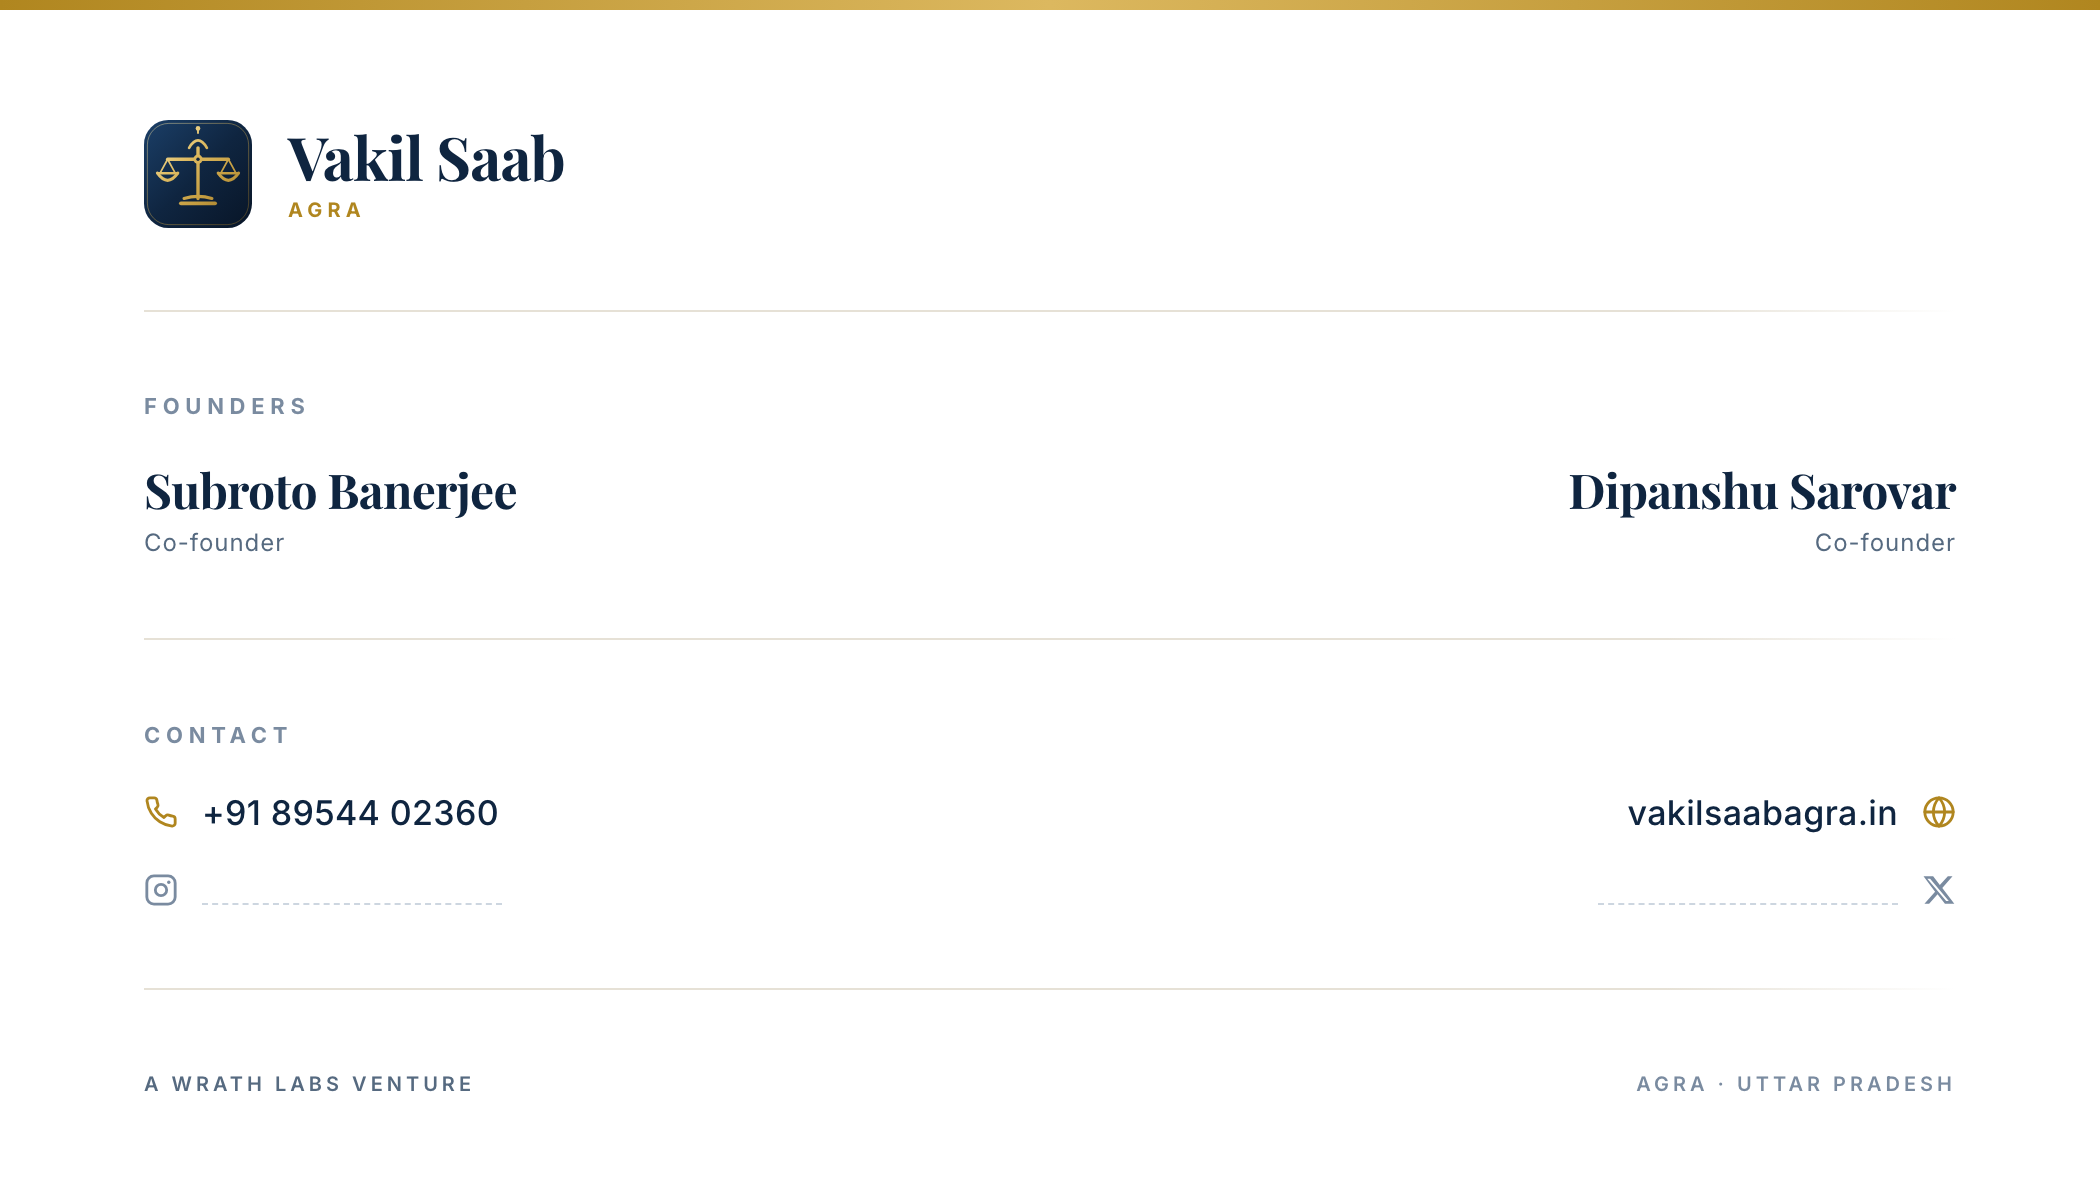
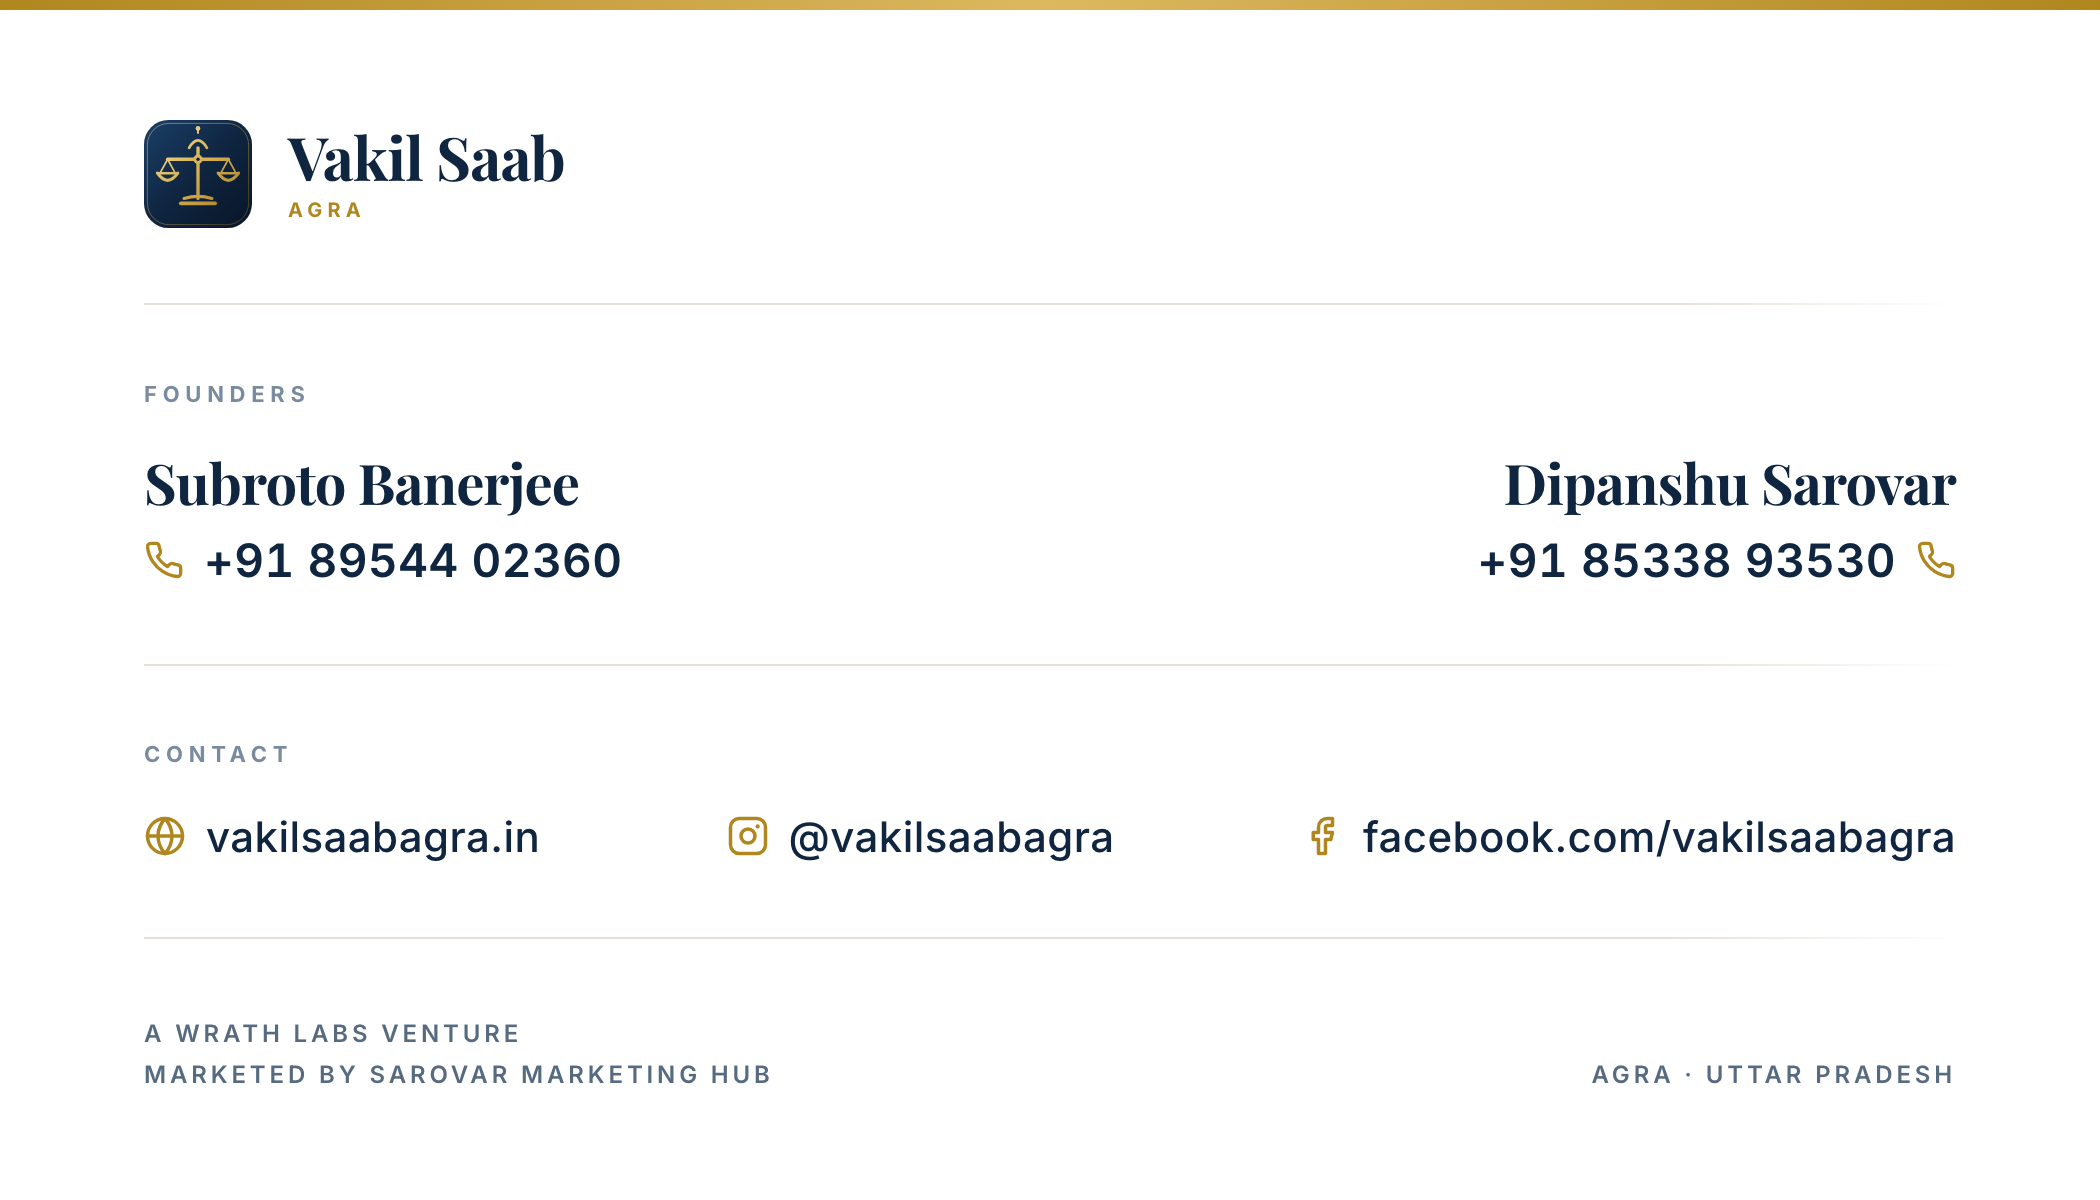
feat(brand): business card — founders' numbers, real socials, larger type
Each founder carries their own number; the contact row is the site,
Instagram and Facebook; a Sarovar Marketing Hub credit in the footer.

Claude-Session: https://claude.ai/code/session_01CR3YgJKuPwDFH6Gg292vKD

diff --git a/tools/business-card/back.html b/tools/business-card/back.html
@@ -53,11 +53,21 @@
       <div class="founders">
         <div class="founder">
           <div class="display fname">Subroto Banerjee</div>
-          <div class="frole">Co-founder</div>
+          <div class="fphone">
+            <svg viewBox="0 0 24 24" fill="none" stroke="currentColor" stroke-width="2" stroke-linecap="round" stroke-linejoin="round" aria-hidden="true">
+              <path d="M22 16.92v3a2 2 0 0 1-2.18 2 19.79 19.79 0 0 1-8.63-3.07 19.5 19.5 0 0 1-6-6A19.79 19.79 0 0 1 2.12 4.18 2 2 0 0 1 4.11 2h3a2 2 0 0 1 2 1.72c.13.96.36 1.9.7 2.81a2 2 0 0 1-.45 2.11L8.09 9.91a16 16 0 0 0 6 6l1.27-1.27a2 2 0 0 1 2.11-.45c.9.34 1.85.57 2.81.7A2 2 0 0 1 22 16.92z"/>
+            </svg>
+            <span>+91 89544 02360</span>
+          </div>
         </div>
         <div class="founder">
           <div class="display fname">Dipanshu Sarovar</div>
-          <div class="frole">Co-founder</div>
+          <div class="fphone">
+            <svg viewBox="0 0 24 24" fill="none" stroke="currentColor" stroke-width="2" stroke-linecap="round" stroke-linejoin="round" aria-hidden="true">
+              <path d="M22 16.92v3a2 2 0 0 1-2.18 2 19.79 19.79 0 0 1-8.63-3.07 19.5 19.5 0 0 1-6-6A19.79 19.79 0 0 1 2.12 4.18 2 2 0 0 1 4.11 2h3a2 2 0 0 1 2 1.72c.13.96.36 1.9.7 2.81a2 2 0 0 1-.45 2.11L8.09 9.91a16 16 0 0 0 6 6l1.27-1.27a2 2 0 0 1 2.11-.45c.9.34 1.85.57 2.81.7A2 2 0 0 1 22 16.92z"/>
+            </svg>
+            <span>+91 85338 93530</span>
+          </div>
         </div>
       </div>
     </section>
@@ -68,13 +78,6 @@
       <div class="eyebrow label">Contact</div>
       <div class="contact">
         <div class="row">
-          <!-- phone -->
-          <svg viewBox="0 0 24 24" fill="none" stroke="currentColor" stroke-width="2" stroke-linecap="round" stroke-linejoin="round" aria-hidden="true">
-            <path d="M22 16.92v3a2 2 0 0 1-2.18 2 19.79 19.79 0 0 1-8.63-3.07 19.5 19.5 0 0 1-6-6A19.79 19.79 0 0 1 2.12 4.18 2 2 0 0 1 4.11 2h3a2 2 0 0 1 2 1.72c.13.96.36 1.9.7 2.81a2 2 0 0 1-.45 2.11L8.09 9.91a16 16 0 0 0 6 6l1.27-1.27a2 2 0 0 1 2.11-.45c.9.34 1.85.57 2.81.7A2 2 0 0 1 22 16.92z"/>
-          </svg>
-          <div class="val">+91 89544 02360</div>
-        </div>
-        <div class="row">
           <!-- globe -->
           <svg viewBox="0 0 24 24" fill="none" stroke="currentColor" stroke-width="2" stroke-linecap="round" stroke-linejoin="round" aria-hidden="true">
             <circle cx="12" cy="12" r="10"/><path d="M2 12h20"/>
@@ -82,20 +85,20 @@
           </svg>
           <div class="val">vakilsaabagra.in</div>
         </div>
-        <div class="row blank">
-          <!-- instagram — handle to be filled in -->
+        <div class="row">
+          <!-- instagram -->
           <svg viewBox="0 0 24 24" fill="none" stroke="currentColor" stroke-width="2" stroke-linecap="round" stroke-linejoin="round" aria-hidden="true">
             <rect x="2" y="2" width="20" height="20" rx="5"/>
             <circle cx="12" cy="12" r="4"/><circle cx="17.5" cy="6.5" r="1.2" fill="currentColor" stroke="none"/>
           </svg>
-          <div class="val"></div>
+          <div class="val">@vakilsaabagra</div>
         </div>
-        <div class="row blank">
-          <!-- x / twitter — handle to be filled in -->
-          <svg viewBox="0 0 24 24" fill="currentColor" stroke="none" aria-hidden="true">
-            <path d="M18.24 2.25h3.31l-7.23 8.26 8.5 11.24h-6.63l-5.2-6.8-5.94 6.8H1.73l7.5-8.58L1.07 2.25h6.8l4.71 6.23 5.66-6.23zm-1.16 17.52h1.83L5.72 4.13H3.75l13.33 15.64z"/>
+        <div class="row">
+          <!-- facebook -->
+          <svg viewBox="0 0 24 24" fill="none" stroke="currentColor" stroke-width="2" stroke-linecap="round" stroke-linejoin="round" aria-hidden="true">
+            <path d="M18 2h-3a5 5 0 0 0-5 5v3H7v4h3v8h4v-8h3l1-4h-4V7a1 1 0 0 1 1-1h3z"/>
           </svg>
-          <div class="val"></div>
+          <div class="val">facebook.com/vakilsaabagra</div>
         </div>
       </div>
     </section>
@@ -103,7 +106,10 @@
     <div class="divider"></div>
 
     <div class="foot">
-      <div class="wl">A Wrath Labs venture</div>
+      <div class="credits">
+        <div>A Wrath Labs venture</div>
+        <div>Marketed by Sarovar Marketing Hub</div>
+      </div>
       <div>Agra &middot; Uttar Pradesh</div>
     </div>
   </div>

diff --git a/tools/business-card/card.css b/tools/business-card/card.css
@@ -112,12 +112,12 @@ body {
 
 .front .site {
   position: absolute;
-  left: 0; right: 0; bottom: 52px;
+  left: 0; right: 0; bottom: 48px;
   text-align: center;
-  font-size: 17px;
-  font-weight: 500;
-  letter-spacing: .06em;
-  color: rgba(255, 255, 255, .82);
+  font-size: 28px;
+  font-weight: 600;
+  letter-spacing: .05em;
+  color: rgba(255, 255, 255, .92);
 }
 
 /* ------------------------------------------------------------------- back */
@@ -170,47 +170,45 @@ body {
   grid-template-columns: 1fr 1fr;
   gap: 40px;
 }
-.back .founder .fname { font-size: 24px; font-weight: 700; line-height: 1.1; }
-.back .founder .frole {
-  margin-top: 6px;
-  color: var(--muted);
-  font-size: 12px;
-  letter-spacing: .04em;
+.back .founder .fname { font-size: 28px; font-weight: 700; line-height: 1.1; }
+.back .founder .fphone {
+  margin-top: 10px;
+  display: flex;
+  align-items: center;
+  gap: 10px;
+  font-size: 23px;
+  font-weight: 600;
+  letter-spacing: .01em;
+  font-variant-numeric: tabular-nums;
 }
+.back .founder .fphone svg { width: 20px; height: 20px; flex: none; color: var(--gold); }
 
 /* --- contact ------------------------------------------------------------- */
+/* one row of three — site, Instagram, Facebook — pinned left, centre, right */
 .back .contact {
   margin-top: 22px;
-  display: grid;
-  grid-template-columns: 1fr 1fr;
-  gap: 20px 40px;
+  display: flex;
+  justify-content: space-between;
+  align-items: center;
 }
-.back .row { display: flex; align-items: center; gap: 12px; }
-.back .row svg { width: 17px; height: 17px; flex: none; color: var(--gold); }
-.back .row .val { font-size: 17px; font-weight: 500; letter-spacing: .01em; }
-
-/* social slots that are deliberately empty until the handles exist */
-.back .row.blank svg { color: var(--muted-2); }
-.back .row.blank .val {
-  width: 150px;
-  border-bottom: 1px dashed #cdd6e0;
-  height: 15px;
-}
+.back .row { display: flex; align-items: center; gap: 10px; }
+.back .row svg { width: 21px; height: 21px; flex: none; color: var(--gold); }
+.back .row .val { font-size: 21px; font-weight: 500; letter-spacing: .01em; }
 
 /* --- footer -------------------------------------------------------------- */
 .back .foot {
   display: flex;
-  align-items: baseline;
+  align-items: flex-end;
   justify-content: space-between;
-  color: var(--muted-2);
-  font-size: 10px;
-  letter-spacing: .2em;
+  color: var(--muted);
+  font-size: 12px;
+  line-height: 1.7;
+  letter-spacing: .16em;
   font-weight: 600;
   text-transform: uppercase;
 }
-.back .foot .wl { color: var(--muted); }
 
 /* The right-hand column mirrors the left so the card is balanced edge to
    edge instead of trailing off into white space on the right. */
 .back .founders > :nth-child(2) { justify-self: end; text-align: right; }
-.back .contact > :nth-child(even) { justify-self: end; flex-direction: row-reverse; }
+.back .founders > :nth-child(2) .fphone { flex-direction: row-reverse; }

diff --git a/CHANGELOG.md b/CHANGELOG.md
@@ -837,6 +837,52 @@ coverage 718 → 750, still the same 4 deliberate English ones.
 
 ---
 
+## 2026-09-12 — Business card: founders' numbers, real socials, larger type
+
+**Front.** `vakilsaabagra.in` along the bottom goes from 17px to 28px, weight
+500 → 600, opacity .82 → .92, and sits 4px lower to keep its gap from the
+tagline. At the card's 1px = 1/300in that is 4.1pt → 6.7pt.
+
+**Back, founders.** The two `Co-founder` lines are gone; each founder carries
+their own number in that place, with a gold phone icon — Subroto
+`+91 89544 02360`, Dipanshu `+91 85338 93530`, both grouped 5-5 like the rest
+of the brand. The right-hand number mirrors the left (icon outboard), the same
+treatment the column already had. Names 24 → 28px, numbers 23px semibold with
+tabular figures.
+
+**Back, contact.** The phone row is removed — the numbers now live under the
+names — and so is the empty X slot. What is left is one row of three, pinned
+left, centre and right: `vakilsaabagra.in`, `@vakilsaabagra` (Instagram) and
+`facebook.com/vakilsaabagra`. The Instagram and Facebook slots were dashed
+blanks until now; these are the real handles. Type 17 → 21px, icons 17 →
+21px. The Facebook icon is the outline glyph from the same stroke set as the
+globe and Instagram icons rather than Meta's filled logo, so the row reads as
+one family. The `.row.blank` styles and the even-child mirroring that the old
+2×2 grid needed are deleted.
+
+**Back, footer.** A second credit line under the first: `A Wrath Labs venture`
+/ `Marketed by Sarovar Marketing Hub`. The footer goes 10 → 12px with tracking
+eased from .2em to .16em so the longer line fits. It is now all `--muted`
+instead of partly `--muted-2`, which is the 3.48:1 pairing the brand kit
+flagged as failing AA at any size.
+
+**Files:** `tools/business-card/back.html`, `card.css` (which carries the
+front-face change too — `front.html` itself is untouched), and both PNGs
+re-rendered with `node tools/business-card/render.js`.
+
+**Verified** by rendering both faces (2100 × 1200 each, unchanged) and looking
+at them: nothing collides or wraps, the three contact entries fit the 906px
+measure with about 90px between them, and both founder numbers line up on the
+same baseline.
+
+**Not changed, and worth knowing.** The site still has `data/site.json` →
+`social` empty (outstanding item 3), so the card now publishes handles the
+site does not link or put in `sameAs`. `tools/brand/tokens.js` still has only
+`A Wrath Labs venture` as `parent`, so the letterhead and email signature do not
+carry the Sarovar Marketing Hub credit.
+
+---
+
 ## Outstanding
 
 Carried forward until done. Also in the README launch checklist.
@@ -847,7 +893,7 @@ In order: 1 blocks 2, and 2 blocks everything public.
 |---|---|---|
 | 1 | **Register `vakilsaabagra.in`.** It is not bought yet — confirmed available at the NIXI registry on 2026-08-24. Every canonical, the sitemap, the microsite hosts and the printed business card already say it | any accredited registrar |
 | 2 | Cloudflare setup. 1.2, 1.4 and 1.5 (Pages project, D1, `ADMIN_TOKEN`) need no domain and can be done now; 1.1 and 1.3 (nameservers, custom domains) wait for item 1 | `docs/DEPLOY.md` Part 1 |
-| 3 | Fill in or delete the social links (empty means no `sameAs` is published, which is correct until real profiles exist) | `data/site.json` → `social` |
+| 3 | Fill in the social links. The handles now exist and the business card carries them — Instagram `vakilsaabagra`, `facebook.com/vakilsaabagra` — but the site has them empty, so no `sameAs` is published yet | `data/site.json` → `social` |
 | 4 | Replace the 20 sample advocates — all carry `chambers@example.com` and `+9199990000xx` — then set `flags.demoNotice: false` | `data/lawyers.json`, `data/site.json` |
 | 5 | The four demo microsites (`ramesh`, `neha`, `deepak`, `rajeev`) have hand-written sample bios. Do **not** add their slugs as Cloudflare custom domains — no subdomain exists and the apex `robots.txt` disallows `/sites/`, so they are unreachable today, and a custom domain is exactly what would make a sample advocate look real | `data/lawyers.json` |
 | 6 | A mailbox on the domain, to replace the personal Gmail now published in the JSON-LD | `data/site.json` → `business.email` |
